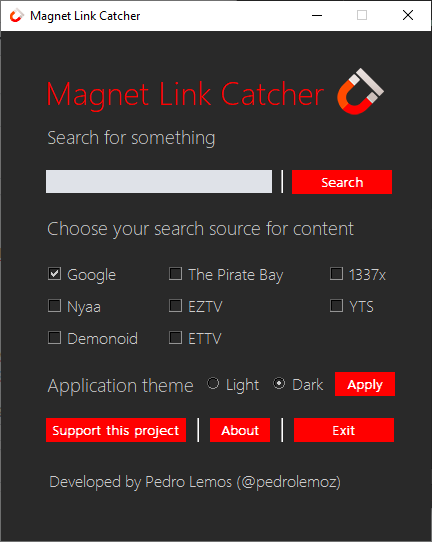
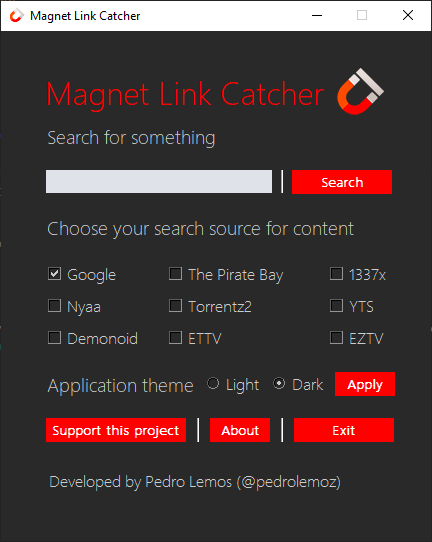
Updated README and minor changes

diff --git a/Magnet Link Catcher.py b/Magnet Link Catcher.py
@@ -64,10 +64,10 @@ while True:
     if event == "Apply":
         status = False
 
-        if values[10]:
+        if values[11]:
             status = settings.change_theme("MagnetLinkCatcherLight")
         
-        elif values[11]:
+        elif values[12]:
             status = settings.change_theme("MagnetLinkCatcherDark")
         
         if status:

diff --git a/README.md b/README.md
@@ -28,9 +28,42 @@
 
 ## Getting started
 
-### From portable version!
+### How to use
 
-Download the program for Windows [here](https://sourceforge.net/projects/magnetlinkcatcher/files/latest/download).
+Type what content you wanna links for, in the search box, select one or more of sources and click in the search button.
+
+By now, supported sources are:
+
+* Google (Slow, but works fine for dubbed content)
+* The Pirate Bay (Fast, and works for every content)
+* 1337x (Fast, and works for every content)
+* Nyaa (Fast, focused in anime RAW's)
+* Torrentz2 (Fast, and works for every content)
+* EZTV (Fast, focused in TV Shows)
+* YTS (Fast, focused in lightweight movies)
+* Demonoid (Fast, focused in TV Shows)
+* ETTV (Slow, focused in TV Shows)
+
+After the search is finished, you can:
+
+* Save all links to a text file
+  > Links are saved to your Downloads folder by default
+* Open the selected magnet link with your default torrent client
+* Copy the magnet link to your clipboard
+
+We plan to add new features, such:
+
+* Save magnet links as a ```.torrent``` file
+* Get info about seeders and leechers and use it to rate torrents
+* Download torrents without a external client
+
+For development, we plan to use the ´´´asyncio´´´ library (for a asynchronous code), since we are dealing with web requests to fetch our magnet links, and try to optimize the speed and stability.
+
+### From a portable version
+
+Download the Windows version
+
+<a href="https://sourceforge.net/projects/magnetlinkcatcher/files/latest/download"><img src="https://a.fsdn.com/con/app/sf-download-button"></a>
 
 ### From source
 
@@ -77,35 +110,3 @@ It will create a folder called ```build``` with the executable inside.
 > Note 1: I don't know why, but cx_Freeze doesn't work in Python 3.8. I'm currently using Python 3.7.6 to build this project.
 
 > Note 2: If your executable fail to start, try rename the folder Tkinter in lib directory to tkinter.
-
-
-### How to use
-
-Type what content you wanna links for, in the search box, select one or more of sources and click in the search button.
-
-By now, supported sources are:
-
-* Google (Slow, but works fine for dubbed content)
-* The Pirate Bay (Fast, and works for every content)
-* 1337x (Fast, and works for every content)
-* Nyaa (Fast, focused in anime RAW's)
-* Torrentz2 (Fast, and works for every content)
-* EZTV (Fast, focused in TV Shows)
-* YTS (Fast, focused in lightweight movies)
-* Demonoid (Fast, focused in TV Shows)
-* ETTV (Slow, focused in TV Shows)
-
-After the search is finished, you can:
-
-* Save all links to a text file
-  > Links are saved to your Downloads folder by default
-* Open the selected magnet link with your default torrent client
-* Copy the magnet link to your clipboard
-
-We plan to add new features, such:
-
-* Save magnet links as a ```.torrent``` file
-* Get info about seeders and leechers and use it to rate torrents
-* Download torrents without a external client
-
-For development, we plan to use the ´´´asyncio´´´ library (for a asynchronous code), since we are dealing with web requests to fetch our magnet links, and try to optimize the speed and stability.
